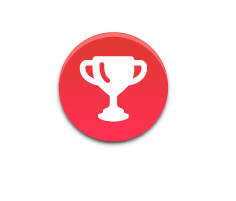
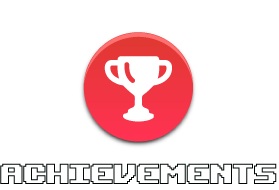
fix ui consistency

Changed region(s): [[0.2373, 0.1579, 0.7415, 0.7895], [0.0, 0.8421, 1.0, 0.9737]]

diff --git a/jolen/js/Facts.js b/jolen/js/Facts.js
@@ -1,0 +1,99 @@
+import Sound from "./Sound.js";
+
+const Facts = {
+    currentPage: 1,
+    totalPages: 3,
+    
+    elements: {
+        overlay: null,
+        openBtn: null,
+        closeBtn: null,
+        board: null,
+        dots: null,
+    },
+
+    init() {
+        this.elements.overlay = document.getElementById('factsOverlay');
+        this.elements.openBtn = document.getElementById('factsBtn');
+        this.elements.closeBtn = document.getElementById('closeFactsBtn');
+        this.elements.board = document.getElementById('factsBoard');
+        this.elements.dots = document.querySelectorAll('.dot');
+
+        if (!this.elements.openBtn || !this.elements.overlay) return;
+
+        this.bindEvents();
+    },
+
+    bindEvents() {
+        // Open
+        this.elements.openBtn.addEventListener('click', () => {
+            Sound.playClick();
+            this.show();
+        });
+
+        // Close
+        this.elements.closeBtn.addEventListener('click', () => {
+            Sound.playClick();
+            this.hide();
+        });
+
+        // Next Page (Click Board)
+        if (this.elements.board) {
+            this.elements.board.addEventListener('click', () => {
+                Sound.playClick();
+                this.nextPage();
+            });
+        }
+
+        // Dot Navigation
+        this.elements.dots.forEach(dot => {
+            dot.addEventListener('click', (e) => {
+                Sound.playClick();
+                const index = parseInt(e.target.dataset.index);
+                this.gotoPage(index);
+            });
+        });
+    },
+
+    show() {
+        this.elements.overlay.classList.remove('hidden');
+        this.gotoPage(1); // Reset to page 1
+    },
+
+    hide() {
+        this.elements.overlay.classList.add('hidden');
+    },
+
+    nextPage() {
+        this.currentPage++;
+        if (this.currentPage > this.totalPages) {
+            this.currentPage = 1;
+        }
+        this.updateUI();
+    },
+
+    gotoPage(index) {
+        if (index >= 1 && index <= this.totalPages) {
+            this.currentPage = index;
+            this.updateUI();
+        }
+    },
+
+    updateUI() {
+        // Update Image
+        if (this.elements.board) {
+            this.elements.board.src = `../assets/jolen_assets/jolen_facts_board_${this.currentPage}.png`;
+        }
+
+        // Update Dots
+        this.elements.dots.forEach(dot => {
+            if (parseInt(dot.dataset.index) === this.currentPage) {
+                dot.classList.add('active');
+            } else {
+                dot.classList.remove('active');
+            }
+        });
+    }
+};
+
+export default Facts;

diff --git a/jolen/styles.css b/jolen/styles.css
@@ -607,6 +607,9 @@ canvas {
   max-height: 90vh;
   overflow-y: auto;
   position: relative;
+  display: flex;
+  flex-direction: column;
+  align-items: center;
   box-shadow: var(--shadow-card);
 }
 
@@ -761,7 +764,8 @@ h3 {
   border-radius: 50%;
   font-size: 30px;
   cursor: pointer;
-  z-index: 90;
+  cursor: pointer;
+  z-index: 200;
   box-shadow: 0 5px 20px rgba(0, 0, 0, 0.4);
   transition: all 0.3s cubic-bezier(0.175, 0.885, 0.32, 1.275);
   display: flex;
@@ -772,6 +776,45 @@ h3 {
 .info-fab:hover {
   transform: scale(1.1) rotate(10deg);
   box-shadow: 0 8px 25px rgba(0, 0, 0, 0.5);
+}
+
+.facts-btn {
+  bottom: 100px;
+  background: linear-gradient(135deg, #8d6e63, #5d4037);
+}
+
+.facts-title {
+  display: block;
+  margin: 0 auto 1rem auto;
+  max-width: 80%;
+}
+
+.click-hint {
+  text-align: center;
+  margin-top: 1rem;
+  color: #ffecb3;
+  font-style: italic;
+  font-size: 0.9rem;
+}
+
+.facts-nav {
+  display: flex;
+  justify-content: center;
+  gap: 10px;
+  margin-top: 10px;
+}
+
+.dot {
+  width: 10px;
+  height: 10px;
+  background-color: rgba(255, 255, 255, 0.3);
+  border-radius: 50%;
+  display: inline-block;
+  cursor: pointer;
+}
+
+.dot.active {
+  background-color: #ffca28;
 }
 
 /* Back Button Styles matching LB but Jolen theme */

diff --git a/assets/css/start_menu.css b/assets/css/start_menu.css
@@ -234,9 +234,8 @@ body {
 }
 
 .menu-btn img {
-    width: 120px;
     height: 120px;
-    min-width: 120px;
+    width: auto;
     min-height: 120px;
     object-fit: contain;
     display: block;
@@ -345,10 +344,7 @@ body {
     text-shadow: 1px 1px 3px rgba(0,0,0,0.5);
 }
 
-/* Scale up achievements button since its source image is smaller */
-.achievements-btn img {
-    transform: scale(1.15);
-}
+
 
 /* Music Toggle Button */
 .music-toggle {
@@ -388,8 +384,8 @@ body {
     }
     
     .menu-btn img {
-        width: 90px;
         height: 90px;
+        width: auto;
     }
     
     .secondary-buttons {
@@ -417,8 +413,8 @@ body {
     }
     
     .menu-btn img {
-        width: 75px;
         height: 75px;
+        width: auto;
     }
     
     .secondary-buttons {

diff --git a/jolen/js/Main.js b/jolen/js/Main.js
@@ -19,11 +19,13 @@ import * as LineMode from "./LineMode.js";
 
 import { UI } from "./UI.js";
 import Sound from "./Sound.js";
+import Facts from "./Facts.js";
 
 document.addEventListener("DOMContentLoaded", () => {
   // Init Modules
   Sound.init();
   UI.init();
+  Facts.init();
 
   const canvas = document.getElementById("gameCanvas");
   const ctx = canvas.getContext("2d");

diff --git a/jolen/index.html b/jolen/index.html
@@ -175,7 +175,7 @@
 
     <!-- Facts Button (Above How to Play) -->
     <button id="factsBtn" class="info-fab facts-btn" title="Game Facts">
-      <img src="../assets/game_facts_assets/jolen_facts_title.png" alt="Facts" />
+      <img src="../assets/game_facts_assets/fact_icon.png" alt="Facts" />
     </button>
 
     <!-- Help Button -->
